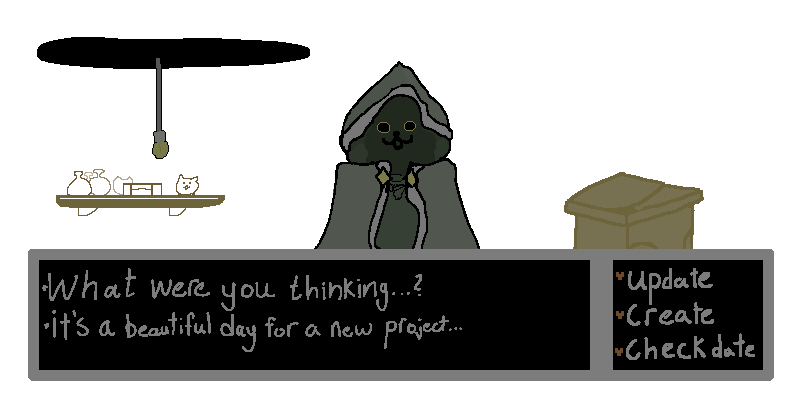
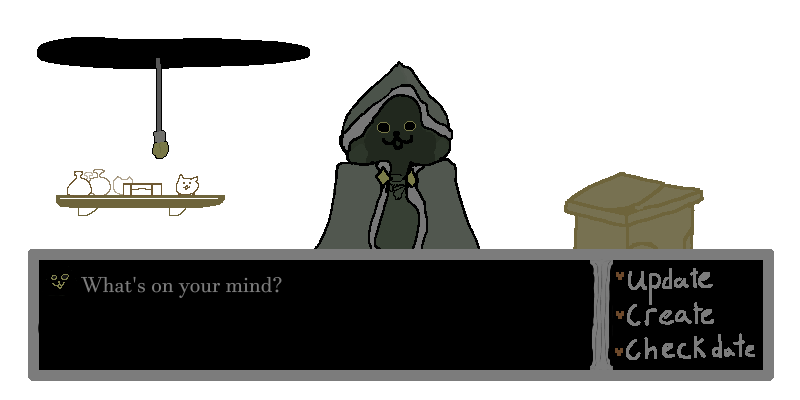
changing some images

Changed region(s): [[0.0312, 0.69, 0.5625, 0.87], [0.7188, 0.66, 0.7812, 0.9]]

diff --git a/src/FirstPage.jsx b/src/FirstPage.jsx
@@ -81,89 +81,114 @@ export default function FirstPage() {
     end: idea.idea_end,
   }));
 
-  return (
-    <>
-      <TopHeader />
-      <box>
-        <Typography
-          component="div"
-          sx={{
-            fontFamily: "Lora",
-            fontSize: "17px",
-            color: "#c93e3e",
-            textAlign: "center",
-            mt: 5,
-          }}
-        >
-          <Fade in={showFirst} timeout={2000}>
-            <Box component="span" sx={{ display: "block" }}>
-              nurture a vision
-            </Box>
-          </Fade>
+ return (
+  <>
+    <TopHeader />
 
-          <Fade in={showSecond} timeout={2000}>
-            <Box component="span" sx={{ display: "block" }}>
-              blossom to reality
-            </Box>
-          </Fade>
 
-          <Fade in={showThird} timeout={2000}>
-            <Box component="span" sx={{ display: "block" }}>
-              curate your idea
-            </Box>
-          </Fade>
-        </Typography>
-      </box>
-      <FloatingActionCards
+    <Box
+      sx={{
+        width: "100%",
+        minHeight: "100vh",
+        display: "flex",
+        flexDirection: "column",
+        alignItems: "center",
+        boxSizing: "border-box",
+      }}
+    >
+      <Box
+      component="header"
+      sx={{
+        width: "100vw",
+        marginLeft: "calc(50% - 50vw)",
+        marginRight: "calc(50% - 50vw)",
+        backgroundColor: "#171717",
+        borderBottom: "1px solid Black",
+      }}
+      >
+      <Typography
+        component="div"
+        sx={{
+          fontFamily: "Lora",
+          fontSize: "17px",
+          color: "#c93e3e",
+          textAlign: "center",
+          mt: 2,
+          mb: 2,
+        }}
+      >
+        <Fade in={showFirst} timeout={2000}>
+          <Box component="span" sx={{ display: "block" }}>
+            Sandwich Bun
+          </Box>
+        </Fade>
+         
+        <Fade in={showSecond} timeout={2000}>
+          <Box component="span" sx={{ display: "block" }}>
+             Hamburger meat
+          </Box>
+        </Fade>
+
+        <Fade in={showThird} timeout={2000}>
+          <Box component="span" sx={{ display: "block" }}>
+            Sandwich Bun
+          </Box>
+        </Fade>
+      </Typography>
+        </Box>
+      <Box
+        sx={{
+          width: "100%",
+          maxWidth: 900,
+          minHeight: 500,
+          p: 3,
+          boxSizing: "border-box",
+        }}
+      >
+        {openSection === null && (
+          <Box
+            component="img"
+            src="/images/Shopkeeper1.png"
+            alt="Shopkeeper"
+            sx={{
+              width: { xs: "100%", md: 800 },
+              maxWidth: "100%",
+              display: "block",
+              mx: "auto",
+            }}
+          />
+        )}
+
+        <Slide in={openSection !== null} timeout={{ enter: 800 }}>
+          <Box>
+            {openSection === "old" && (
+              <OldIdeaTable
+                ideas={ideas}
+                onIdeaSelect={(idea) => {
+                  setSelectIdea(idea);
+                  setOpenSection("ideaDetails");
+                }}
+                onIdeasChanged={fetchIdeas}
+              />
+            )}
+
+            {openSection === "new" && <NewIdeaTF onIdeaSaved={fetchIdeas} />}
+
+            {openSection === "dates" && <Calendar events={calendarEvents} />}
+
+            {openSection === "ideaDetails" && (
+              <UpdateIdeaPage idea={selectIdea} onIdeasChanged={fetchIdeas} />
+            )}
+          </Box>
+        </Slide>
+      </Box>
+    </Box>
+
+    <FloatingActionCards
       onUpdate={() => setOpenSection("old")}
       onCreate={() => setOpenSection("new")}
       onDates={() => setOpenSection("dates")}
     />
-
-        {/* Right side red/content box */}
-        <Box
-          sx={{
-            width: 800,
-            minHeight: 500,
-            p: 3,
-          }}
-        >
-          {openSection === null && (
-            <Box
-              component="img"
-              src="/images/Shopkeeper1.png"
-              alt="Shopkeeper"
-              sx={{
-                width: { xs: "100%", md: 800 },
-                maxWidth: "100%",
-                display: "block",
-                mx: "auto",
-              }}
-            />
-          )}
-          <Slide in={openSection !== null} timeout={{ enter: 800 }}>
-            <Box>
-              {openSection === "old" && (
-                <OldIdeaTable
-                  ideas={ideas}
-                  onIdeaSelect={(idea) => {
-                    //this right here is a function, giving oldIdeaTable a function, saying when you pick an idea,
-                    setSelectIdea(idea); //this stores the idea
-                    setOpenSection("ideaDetails"); //this changes the visible section of the detail page
-                  }}
-                  onIdeasChanged={fetchIdeas}
-                />
-              )}
-
-              {openSection === "new" && <NewIdeaTF onIdeaSaved={fetchIdeas} />}
-              {openSection === "dates" && <Calendar events={calendarEvents} />}
-              {openSection === "ideaDetails" && (
-                <UpdateIdeaPage idea={selectIdea} onIdeasChanged={fetchIdeas} />
-              )}
-            </Box>
-          </Slide>
-        </Box>
-      
-    </>
-  );
+  </>
+);
 }

diff --git a/src/components/FloatingCard.jsx b/src/components/FloatingCard.jsx
@@ -19,6 +19,8 @@ export default function FloatingActionCards({ onUpdate, onCreate, onDates }) {
     },
   ];
 
+  const middle = (cards.length - 1) / 2;
+  const rotateXValues = [10, 360, 10];
   return (
     <Box
       sx={{
@@ -29,12 +31,14 @@ export default function FloatingActionCards({ onUpdate, onCreate, onDates }) {
         zIndex: 9999,
 
         display: "flex",
-        alignItems: "center",
+        alignItems: "flex-end",
         justifyContent: "center",
+
+        perspective: "900px",
 
         "&:hover .floating-card": {
           mx: 2,
-          transform: "translateY(-18px) scale(1.08)",
+          transform: "rotateX(0deg) rotateY(0deg) translateY(-18px) scale(1.05)",
           opacity: 1,
         },
       }}
@@ -47,21 +51,36 @@ export default function FloatingActionCards({ onUpdate, onCreate, onDates }) {
           sx={{
             width: 105,
             height: 105,
-            mx: -1.5,
-            border: "1px solid #4c8aa5",
-            backgroundColor: "rgba(0, 0, 0, 0.65)",
+            mx: -4.5,
+
+            position: "relative",
             overflow: "hidden",
 
-            transition:
-              "transform 0.28s ease, margin 0.28s ease, opacity 0.28s ease",
-            transform: "translateY(0) scale(1)",
-            opacity: 1,
+            border: "4px solid #999000",
+            backgroundColor: "rgba(0, 0, 0, 0.75)",
+            boxShadow: "0 12px 18px rgba(0,0,0,0.45)",
 
-            zIndex: cards.length - index,
+            transformOrigin: "center center",
+
+            transform: `
+              rotateX(${rotateXValues[index]}deg)
+              rotateY(${(index - middle) * 360}deg)
+              translateY(15px)
+              scale(0.95)
+            `,
+
+            opacity: 0.85,
+
+            transition:
+              "transform 0.32s ease, margin 0.32s ease, opacity 0.32s ease, border-color 0.32s ease",
+
+            zIndex: index + 1,
 
             "&:hover": {
-              transform: "translateY(-30px) scale(1.16) !important",
+              transform:
+                "rotateX(0deg) rotateY(0deg) translateY(-42px) scale(1.18) !important",
               borderColor: "#e0d500",
+              zIndex: 99,
             },
           }}
         >
@@ -73,6 +92,7 @@ export default function FloatingActionCards({ onUpdate, onCreate, onDates }) {
               width: "100%",
               height: "100%",
               objectFit: "cover",
+              display: "block",
             }}
           />
 
@@ -85,6 +105,7 @@ export default function FloatingActionCards({ onUpdate, onCreate, onDates }) {
               color: "white",
               fontSize: "22px",
               fontFamily: "Lora",
+              textAlign: "center",
               textShadow: "2px 2px 2px black",
               pointerEvents: "none",
             }}

diff --git a/src/components/NewIdeaPage.jsx b/src/components/NewIdeaPage.jsx
@@ -88,7 +88,7 @@ function formatDate(dateString) {
         direction="column"
         spacing={7}
         justifyContent="center"
-        sx={{ mt: 10 }}
+        sx={{ mt: 10, mb:  15 }}
       >
         <TextField
           id="standard-multiline-flexible"
@@ -115,6 +115,11 @@ function formatDate(dateString) {
           variant="standard"
           
         />
+  <LabelSelect
+          selectedLabel={selectedLabel}
+          setSelectedLabel={setSelectedLabel}
+        />
+
   {/* Date button*/}
         
         <ButtonBase onClick={() => setCalOpen(true)}>
@@ -127,6 +132,8 @@ function formatDate(dateString) {
             {dateButtonText}
           </Typography>
         </ButtonBase>
+
+        
   {/* Dialog for calendar */}
         <Dialog
           sx={{ //You can copy the code below in your theme
@@ -159,19 +166,16 @@ function formatDate(dateString) {
         </Dialog>
 
   {/* label button */}
-        <LabelSelect
-          selectedLabel={selectedLabel}
-          setSelectedLabel={setSelectedLabel}
-        />
+        
 
         <ButtonBase onClick={saveIdea}>
           <img
-            src="/images/buttonpng.png"
+            src="/images/SaveIdea1.png"
             alt="submitbutton"
             style={{
-              width: 600,
-              height: 150,
-              objectFit: "cover",
+              width: 400,
+              height: 100,
+              objectFit: "contain",
               display: "block",
             }}
           />

diff --git a/src/components/AppBar.jsx b/src/components/AppBar.jsx
@@ -15,7 +15,7 @@ export default function TopHeader() {
     >
       <Box
         sx={{
-          height: "64px",
+          height: "80px",
           px: { xs: 2, md: 4 },
           display: "flex",
           alignItems: "center",
@@ -29,10 +29,12 @@ export default function TopHeader() {
             fontWeight: 300,
             fontSize: "17px",
             color: "white",
-            fontFamily: "Lora"
+            fontFamily: "Lora",
+            
           }}
         >
           Saving...
+        
         </Typography>
         </Fade>
 
